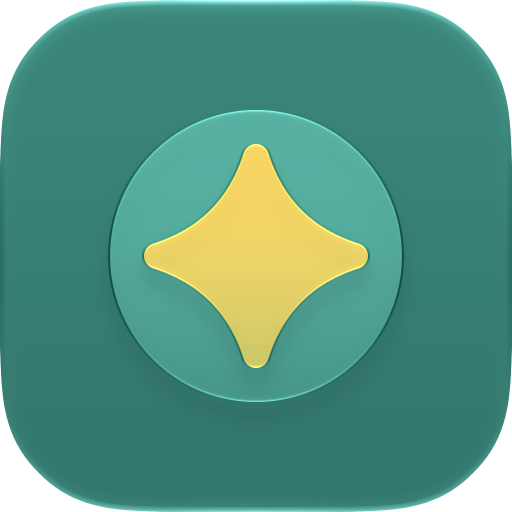
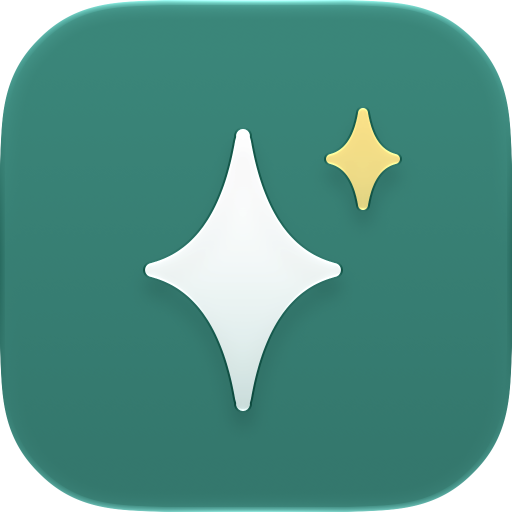
feat: add the glint star artwork and regenerate outputs

Changed region(s): [[0.1875, 0.1875, 0.8125, 0.8125]]

diff --git a/DESIGN.md b/DESIGN.md
@@ -2,11 +2,12 @@
 
 ## Overview
 
-The skill-cli mark is a medal carrying a spark: each skill is an ability an
-agent earns. It belongs to one family with the agents shield, sharing its glass
-layering, so the skills-only edition and the full tool read as related. The
-same app icon is the organization avatar, the mark on the organization profile
-and the mark of the `skill` CLI.
+The skill-cli mark is a glint star with a small companion glint, the twinkle
+anime uses for a flash of insight: each skill is an ability an agent gains.
+It is the star at the center of the agents crest without the crest, so the
+skills-only edition and the full tool read as one family. The same app icon
+is the organization avatar, the mark on the organization profile and the mark
+of the `skill` CLI.
 
 The icon is a Liquid Glass app icon built in Icon Composer. Its Icon Composer
 document and its rendered assets are generated from the entry below; change the
@@ -17,15 +18,14 @@ entry or the layer artwork, then regenerate.
 | Token | Value | Use |
 | --- | --- | --- |
 | `background` | `#007A6D` | Icon background; Icon Composer derives its gradient from it |
-| `medal` | `#27B4A2` | Medal |
-| `spark` | `#FFD54A` | Spark |
+| `star` | `#FFFFFF` | Glint star |
+| `glint` | `#FFE07A` | Companion glint |
 
 ## Iconography
 
-The medal is translucent glass behind the spark, so the overlap gives the icon
-depth. The spark is opaque so it keeps its shape in the dark, clear and tinted
-appearances. Each group's lightness differs from the background and from the
-other group by at least the lint threshold.
+The companion glint is translucent glass at the star's upper right, so the
+icon keeps depth while the opaque star keeps its shape in the dark, clear and
+tinted appearances.
 
 ```json
 {
@@ -35,14 +35,14 @@ other group by at least the lint threshold.
       "gradient": true,
       "groups": [
         {
-          "name": "Medal",
-          "layers": [{"source": "Brand/Icon/medal.svg", "name": "Medal"}],
+          "name": "Glint",
+          "layers": [{"source": "Brand/Icon/glint.svg", "name": "Glint"}],
           "shadow": {"kind": "neutral", "opacity": 0.5},
-          "translucency": {"enabled": true, "value": 0.5}
+          "translucency": {"enabled": true, "value": 0.2}
         },
         {
-          "name": "Spark",
-          "layers": [{"source": "Brand/Icon/spark.svg", "name": "Spark"}],
+          "name": "Star",
+          "layers": [{"source": "Brand/Icon/star.svg", "name": "Star"}],
           "shadow": {"kind": "neutral", "opacity": 0.5}
         }
       ],
